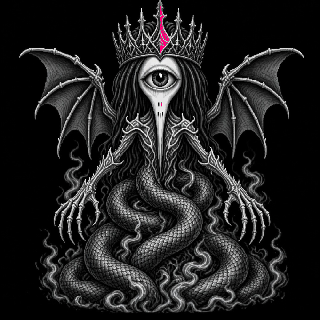
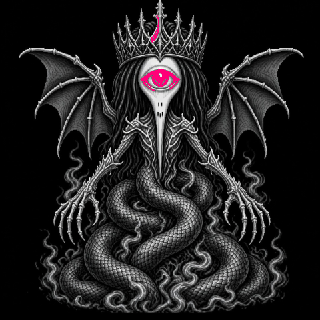
One quality for every tier
Every drawing is cut at 480 pixels onto a 600-pixel canvas at scale 4. The
density ladder is gone.

It was my idea and it was wrong. Rarity was carried by how finely a being
was drawn — a Common at 84 pixels, the God at 680 — but the canvas is
shared, so what it actually did was draw the COMMON'S WHOLE PICTURE at a
fifth of the resolution. At 120 art pixels the mandala behind a Common had
120 pixels to live in, and so did its stars, its mushrooms and its floor.
The character was never the problem. The two tiers looked like two different
collections, one of them badly made.

It never worked on its own terms either. Measured early on, the steps
stopped being visible above about 300 pixels: 300, 440, 640 and 900 were the
same picture at any size anyone would view them. Half the ladder was already
doing nothing.

Rarity is carried by how many traits fire — 4.5 on a Common against 11 on
the God — by which colourway is worn, and by how elaborate the drawing
itself is. None of those needs the picture to be worse.

A round is 23 MB now rather than 12, which is the honest cost of rendering
every picture properly.

Claude-Session: https://claude.ai/code/session_012fPE6Z885VdMpuWvLVtEeg

diff --git a/tools/round.py b/tools/round.py
@@ -31,16 +31,21 @@ PALETTE_FOR = {"Regalia": "Void", "Verdant": "Verdigris", "Furnace": "Ember",
 COUNTS = {"common": 40, "uncommon": 28, "rare": 18, "epic": 11,
           "legendary": 7, "mythic": 4, "entity": 2, "god": 1}
 
-# Canvas in art pixels, and how many screen pixels each becomes. Every pair
-# multiplies to 2400, so the scale is always a whole number; and each canvas
-# is the tier's rung divided by how much of the frame that tier should fill,
-# so the drawing is never resampled by a fraction either.
+# One canvas for every tier: 600 art pixels at scale 4, which lands on 2400,
+# with the drawing cut at 480 so it is never resampled by a fraction.
 #
-# A rarer being sits on a canvas closer to its own size, so it looms larger:
-# a Common fills 70% of its frame, the God 85%.
-CANVAS = {"common": (120, 20), "uncommon": (160, 15), "rare": (200, 12),
-          "epic": (240, 10), "legendary": (300, 8), "mythic": (400, 6),
-          "entity": (600, 4), "god": (800, 3)}
+# It used to vary — a Common was drawn on 120 art pixels and the God on 800 —
+# on the theory that rarity could be carried by how finely a being was drawn.
+# It cannot. What that actually did was draw the COMMON'S WHOLE PICTURE at a
+# fifth of the resolution: its mandala had 120 pixels to live in, its
+# mushrooms and stars likewise. The two tiers looked like two different
+# collections, one of them badly made.
+#
+# Rarity is carried by how many traits fire, which colourway is worn, and how
+# elaborate the drawing itself is. None of those needs the picture to be
+# worse.
+CANVAS = {t: (600, 4) for t in ("common", "uncommon", "rare", "epic",
+                                "legendary", "mythic", "entity", "god")}
 
 # How loud a tier's picture is allowed to be, 0 to 1. It tilts the trait rolls
 # toward their louder values, pushes the colour harder, and makes the rarer

diff --git a/art/LADDER.md b/art/LADDER.md
@@ -1,93 +1,46 @@
-# The ladder
+# One quality for everything
 
-Rarity is carried by how finely a being is drawn. A Common is a chunky
-sprite you can count the pixels on. A God is dense. Every rung is about
-half again as fine as the one below, which is the smallest step that can
-actually be seen.
+Every tier's drawing is cut at **480 pixels**, onto a **600-pixel canvas at
+scale 4**, landing on 2400. Every picture in the collection is made the same
+way at the same resolution.
 
-| Tier | Across | What the step does |
-|------|--------|--------------------|
-| Common | 96 | blocks, plainly |
-| Uncommon | 128 | blocks, a little finer |
-| Rare | 180 | detail starts to hold |
-| Epic | 260 | ornament becomes readable |
-| Legendary | 380 | fine linework survives |
-| Mythic | 500 | — |
-| Entity | 640 | — |
-| God | 800 | — |
+## Rarity is carried by the traits, not by the resolution
 
-**Raised once already.** The first ladder topped out at 600 and the masters
-are 1,408 across, so scales, feathers and filigree were being thrown away
-before anything was coloured. Everything moved up; the God gained a third.
-The Mythic now warns that it carries almost nothing at 500 — it is the
-softest piece in the cast and genuinely has less to give.
+| Tier | Traits firing, on average |
+|------|---------------------------|
+| Common | 4.5 |
+| Uncommon | 6.0 |
+| Rare | 6.8 |
+| Epic | 8.0 |
+| Legendary | 8.6 |
+| Mythic | 9.0 |
+| Entity | 9.0 |
+| God | 11.0 |
 
-## Where the ladder stops working, and what carries it after that
+Plus which colourway is worn — the rarest tiers draw from a restricted pool —
+and how elaborate the drawing itself is, which is the artist's doing and
+needs no help from the renderer.
 
-Tested on the crowned Epic at every rung: **above about 300 pixels the
-steps stop being visible.** 300, 440, 640 and 900 look the same at any size
-anyone will view them. Density does real work from Common to Legendary and
-then it saturates.
+## Why the density ladder was wrong
 
-So the top four tiers do not get their rank from resolution. They get it
-from what is drawn — more ornament, a bigger presence in the frame, rarer
-fields and lights behind them, a frame only they wear. The numbers above
-still climb past Legendary, but gently, and mostly so the files hold up
-when someone zooms in rather than to signal anything.
+Rarity used to be carried by how finely a being was drawn: a Common cut at 84
+pixels, the God at 680. The idea was that a Common should look like a chunky
+sprite and a God should not.
 
-If a Mythic and a Legendary end up looking equally fine, that is correct.
-The Mythic should be recognisable as rarer because of what it *is*.
+What it actually did was **draw the Common's whole picture at a fifth of the
+resolution.** The canvas is shared: at 120 art pixels the mandala behind the
+Common had 120 pixels to live in, and so did its stars, its mushrooms and its
+floor. The character was never the problem. The two tiers looked like two
+different collections, one of them badly made.
 
-## You never draw anything twice
+It also never worked on its own terms. Tested early on, the steps stopped
+being visible above about 300 pixels — 300, 440, 640 and 900 were the same
+picture at any size anyone would view them at. Half the ladder was doing
+nothing even then.
 
-Draw every piece as large and as detailed as you like. It is cut to its
-rung here, by box-averaging, which is why the Epic came down from 1,244
-pixels to 200 without falling apart.
-
-- `masters/` — exactly as drawn, untouched. Everything is cut from these.
-- `beings/` — cut to the rung, black keyed to transparent, squared.
-
-Nothing is ever upscaled, because coming down is reversible and inventing
-detail is not. That means a piece can be re-cut to a different rung at any
-time if a being changes tier, and nothing is lost.
-
-## Files are named for what they are, not what rank they hold
-
-`grey-winged.png`, not `rare-winged.png`. Ranks move; drawings do not. Which
-being holds which rank lives in `tiers.json`, one line each, and changing a
-line there plus a re-cut is the whole job.
-
-## Keying
-
-All of them sit on pure black with nothing bleeding, so black is keyed to
-transparent and each one is squared on its own centre. Soft edges survive
-as partial transparency: the Epic's starfield haze blends over whatever
-field is behind it rather than sitting in a black box.
-
-## The cast, and why it is ordered this way
-
-| Rank | Drawing | What it gains |
-|------|---------|---------------|
-| Common | `grey-plain` | — |
-| Uncommon | `grey-fourarm` | a third eye, four arms |
-| Rare | `grey-winged` | and wings |
-| Epic | `crowned` | a cloak and a crown |
-| Legendary | `crowned-flame` | a crown of flame, and an aura |
-| Mythic | `dread-winged` | opens the third eye, and sits in cloud |
-| Entity | `crowned-entity` | a crown, thorn hands, and rises out of the rock |
-| God | `god-serpent` | one eye, bone wings, and a serpent coiled beneath |
-
-All eight tiers are drawn.
-
-It is one being ascending, which is why the order is what it is rather than
-what each piece was called when it arrived. Three of them moved down a rank
-to make room: the plain grey was an Uncommon, the crowned one a Rare, the
-flame-crowned one an Epic.
-
-The two crowned ones still share a body below the neck. The crown and the
-aura are the tells. Now that they sit a rank apart rather than adjacent,
-that matters less than it did — but it is still the pair most likely to be
-mistaken for each other.
+A Common is still plainly a Common: it is a simpler drawing, it wears a
+commoner colour, and four or five things happen in its picture instead of
+eleven. None of that needs the picture to be worse.
 
 ## Two ways to colour a being
 
